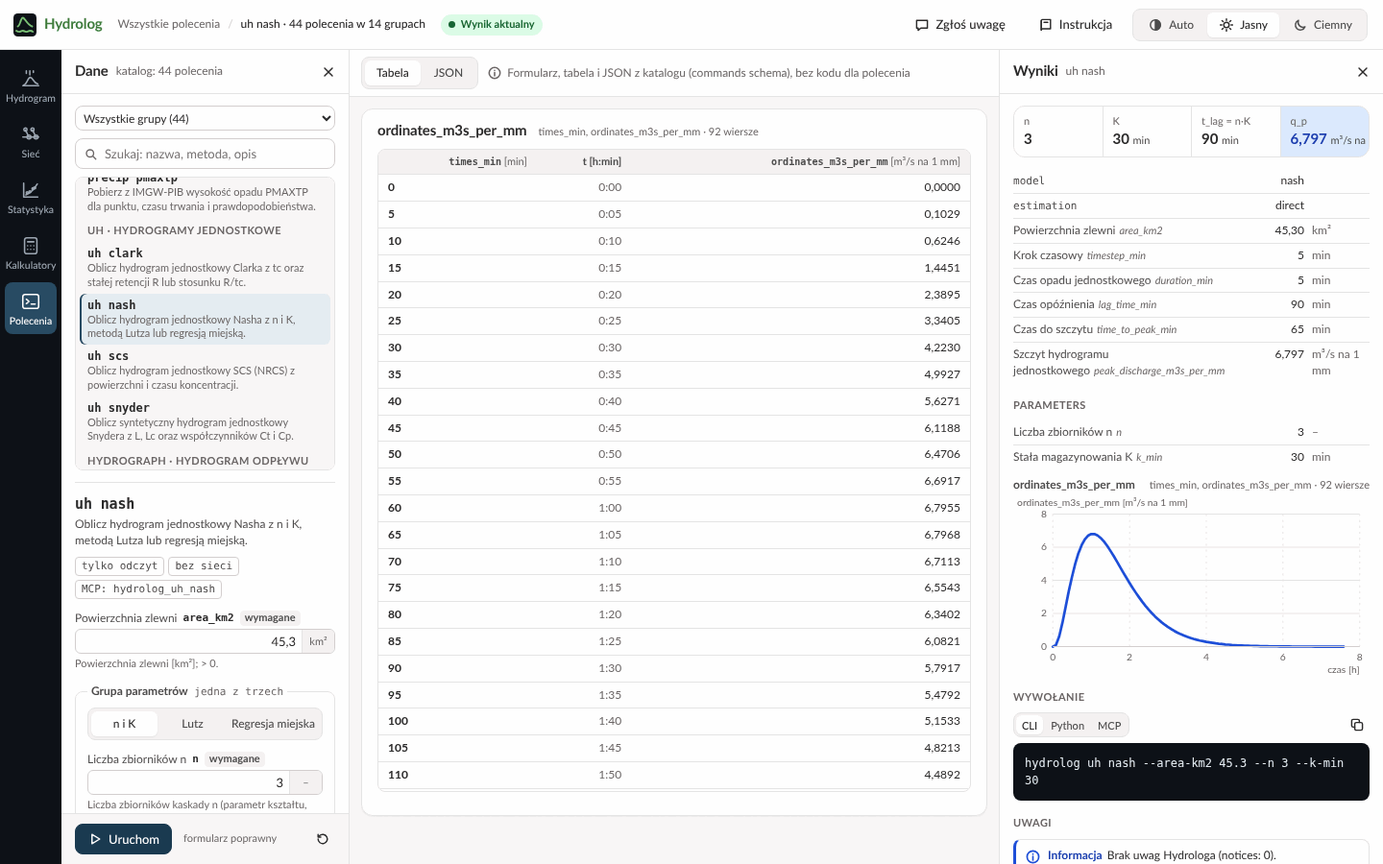
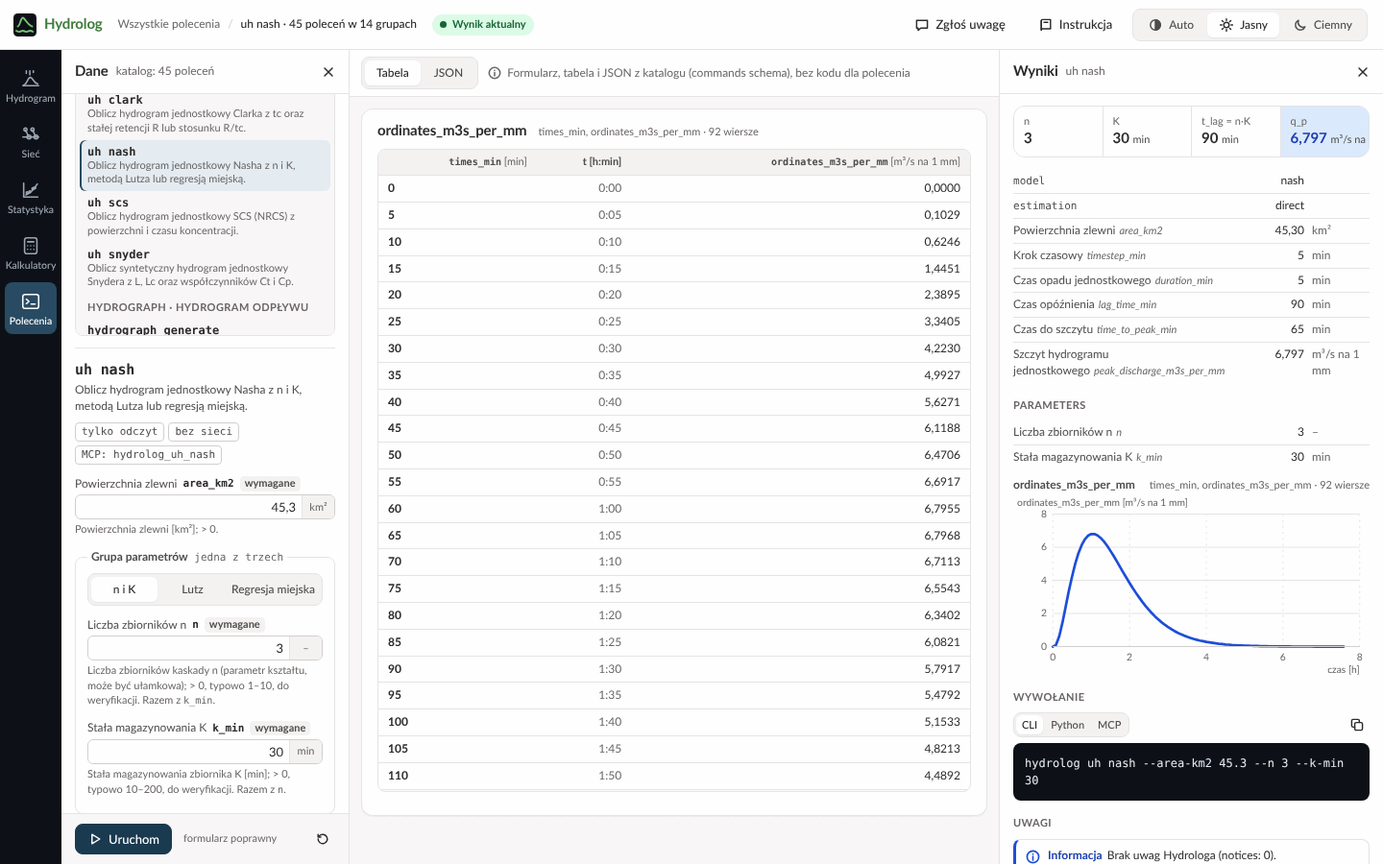
docs(guide): Hydrograf's network hand-off of 2026-11-11 and the pictures taken again
The chapter „Sieć z Hydrografa i pochodzenie węzłów” follows Hydrograf's nodes J and P, the outlet O and the two kinds dopływ and przyrzecze, with a picture of a real hand-off loaded in Sieć; the statistics' file action is „Z pliku CSV…” and „Wczytaj z Archiwisty”; statystyka.png, polecenia.png and siec-hydrograf.png are taken again from the running GUI (256 colours), and PROGRESS drops the notes that asked for them.

diff --git a/src/hydrolog/gui/web/instrukcja/index.html b/src/hydrolog/gui/web/instrukcja/index.html
@@ -350,13 +350,13 @@
   <p class="hint-box"><strong>Spróbuj:</strong> wybierz odcinek R_A, zmień metodę z „lag” na „Muskingum”, wpisz K&nbsp;30&nbsp;min i X&nbsp;0,2, a potem „Oblicz sieć”. Fala spłaszczy się w korycie: szczyt na wylocie spadnie do <span class="ex" data-example="siec-q-muskingum">18,0&nbsp;m³/s</span> i nadejdzie po <span class="ex" data-example="siec-tp-muskingum">2:35&nbsp;h</span>.</p>
 
   <h3 id="siec-z-hydrografa">Sieć z Hydrografa i pochodzenie węzłów</h3>
-  <p>Hydrograf wyznacza na mapie sieć zlewni do przekroju zamykającego, w punktach, które wskażesz: dopływy (do punktu, do ujścia albo powyżej najwyższego zbiegu), przyrzecza odcinków rzeki między punktami, same odcinki i złącza. Taką sieć przekazuje Hydrologowi (zob. <a href="#przekazanie">Przekazanie</a>), a „Wczytaj z Hydrografa” w kroku „Sieć” otwiera ją od razu ułożoną na schemacie. Każdy węzeł pamięta, skąd pochodzą jego dane.</p>
+  <p>W Hydrografie wybierz „Wybierz zlewnię”, a nad mapą „Sieć zlewni”. Wskaż najpierw przekrój zamykający na cieku, potem punkty powyżej niego. Punkt blisko zbiegu cieków staje się węzłem <code>J</code>, a punkt poza zbiegiem węzłem <code>P</code>; identyfikatory są nadawane od przekroju zamykającego w górę sieci. Hydrograf dzieli teren na dopływy do węzłów (również dopływ cieku głównego) i przyrzecza odcinków, a między nimi wyznacza odcinki i złącza. Po „Oblicz charakterystyki” użyj „Plik przekazania” albo „Kopiuj do Hydrologa”; w Hydrologu „Wczytaj z Hydrografa” w kroku „Sieć” otwiera sieć ułożoną na schemacie (zob. <a href="#przekazanie">Przekazanie</a>). Każdy węzeł pamięta, skąd pochodzą jego dane.</p>
   <figure>
-    <a href="img/siec-hydrograf.png"><img src="img/siec-hydrograf.png" width="1440" height="900" loading="lazy" alt="Sieć Rzeka, sieć (8 zlewni) wczytana z przekazania Hydrografa, z podanym opadem sieci i wybraną zlewnią Z3: w panelu Dane i w kroku Zlewnia panelu Zlewnia Z3 karta Z Hydrografa: przyrzecze odcinka R1 z miejscem ujścia 52,3476° N, 20,4811° E i datą przekazania, pod nią pola zlewni z Hydrografa; w środku schemat ułożony przez Hydrologa: dopływy przy złączach J1 do J5 na linii głównej, odcinki R1 do R4 z metodą Muskingum-Cunge; w panelu Wyniki karta przekazania Z Hydrografa: Rzeka, sieć (8 zlewni)."></a>
-    <figcaption>Sieć z Hydrografa po wczytaniu: każdy węzeł ma kartę pochodzenia, tu przyrzecze odcinka R1.</figcaption>
+    <a href="img/siec-hydrograf.png"><img src="img/siec-hydrograf.png" width="1440" height="900" loading="lazy" alt="Sieć ośmiu zlewni wczytana z Hydrografa: wybrana Z2 ma w obu panelach danych kartę „Z Hydrografa: przyrzecze odcinka R2”, powierzchnię 0,72 km² i CN 69,60; na schemacie są złącza J1–J4, odcinki R1–R3 i wylot O; po prawej karta przekazania bez wyniku producenta."></a>
+    <figcaption>Sieć z Hydrografa po wczytaniu: pochodzenie wybranego przyrzecza odcinka R2 i schemat z wylotem O.</figcaption>
   </figure>
   <ul>
-    <li><strong>Pochodzenie</strong> zlewni pokazuje karta w kroku „Zlewnia” jej panelu i w kroku 3 panelu „Dane”, np. „Z Hydrografa: przyrzecze odcinka R1” albo „Z Hydrografa: dopływ do ujścia przy punkcie P3”, z miejscem ujścia zlewni (szerokość i długość geograficzna) i datą przekazania; pola zmienione od wczytania wymienia dopisek „zmienione: …”. Pochodzenie opadu i modelu, gdy przekazanie je podaje, jest w krokach „Hietogram” i „Hydrogram”. Odcinek, złącze i wylot mają kartę w kroku 3 panelu „Dane”: odcinek mówi, jak zmierzono jego długość i spadek („długość wzdłuż spływu · spadek z NMT · NMT 128,6 → 123,8 m n.p.m.”, a gdy wzdłuż odcinka biegnie linia cieku BDOT10k, także długość kontrolną), złącze to „zbieg”, „punkt kontrolny P4” albo „przekrój zamykający A”. Węzeł bez własnego pochodzenia pokazuje kartę całego przekazania.</li>
+    <li><strong>Pochodzenie</strong> zlewni pokazuje karta w kroku „Zlewnia” jej panelu i w kroku 3 panelu „Dane”, np. „Z Hydrografa: przyrzecze odcinka R2” albo „Z Hydrografa: dopływ do punktu J4”, z miejscem ujścia zlewni (szerokość i długość geograficzna) i datą przekazania; pola zmienione od wczytania wymienia dopisek „zmienione: …”. W przekazaniu z pokazanego przykładu jest osiem zlewni, trzy odcinki, złącza <code>J1</code>–<code>J4</code> i wylot <code>O</code>: <code>Z7</code> to dopływ cieku głównego do <code>J4</code>, <code>Z8</code> drugi dopływ, a <code>Z2</code> przyrzecze odcinka <code>R2</code>. Pochodzenie opadu i modelu, gdy przekazanie je podaje, jest w krokach „Hietogram” i „Hydrogram”. Odcinek, złącze i wylot mają kartę w kroku 3 panelu „Dane”: odcinek opisuje pomiar długości i spadku, a złącze wskazuje zbieg, punkt lub przekrój zamykający. Węzeł bez własnego pochodzenia pokazuje kartę całego przekazania.</li>
     <li><strong>Czego Hydrograf nie podaje</strong>: opadu sieci i przekroju odcinków. Podaj opad sieci w kroku „Sieć”; do tego czasu każda zlewnia ma „Brak opadu”. „Oblicz sieć” oznacza potem odcinki znakiem „!”, dopóki nie wpiszesz w każdym szorstkości Manninga i szerokości dna. Zlewnie przychodzą z polami zlewni i stratami SCS-CN, a bez wskazanego modelu otwierają się z modelem SCS i czasem koncentracji Kirpicha, tak jak liczy je Hydrolog; możesz je zmienić w ich panelach.</li>
     <li><strong>Płaski albo krótki odcinek</strong>: na odcinku płaskim, krótkim albo z wąskim korytem i dużym przepływem długość dyfuzji fali (D&nbsp;=&nbsp;Q&nbsp;/&nbsp;(T·S0·c)) jest długa wobec drogi, jaką fala przebywa w jednym kroku czasowym, i metoda Muskingum-Cunge nie ma wtedy nieujemnych wag dla żadnego podziału odcinka ani kroku. Hydrolog nie odrzuca takiej sieci: trasuje odcinek jako zbiornik liniowy (gdy odcinek jest dłuższy niż półtorej długości dyfuzji, jako kaskadę n&nbsp;≈&nbsp;L/D zbiorników), który zachowuje czas przepływu fali L/c, i liczy sieć dalej. Wybrany w „Wynikach” odcinek ma wtedy ostrzeżenie, np. „Odcinek R2 trasowano jako zbiornik liniowy o K = … min, bo przy kroku 5 min metoda Muskingum-Cunge nie daje nieujemnych wag…”, z długością odcinka, prędkością fali i długością dyfuzji; uwagi wyniku mają uwagę tego węzła, a w jego parametrach „Schemat obliczeń” to „zbiorniki liniowe”. Tłumienie fali na takim odcinku jest przybliżone. Odcinek, którego metoda nie przyjmuje kroku sieci (np. Muskingum z podaną liczbą pododcinków), „Oblicz sieć” odrzuca: błąd mówi, czy krok jest za krótki (z zakresem kroków, które pasują), czy za długi, a pod nim „Zamień na opóźnienie (lag)” z wpisanym czasem od razu liczy sieć od nowa, a „Zamień na zbiornik (level-pool)” czeka na tabelę pojemność–odpływ w „Dane”. Krok czasowy sieci jest w kroku 1 „Sieć”, w polu „Krok czasowy”; puste pole to krok domyślny (krok źródeł, a bez nich 5&nbsp;min).</li>
     <li><strong>Dalej</strong>: pochodzenie idzie za węzłem także po zmianie id, a zlewnia dodana przez „Dodaj zlewnię z Hydrografa” albo wczytana w panelu zlewni dostaje pochodzenie ze swojego przekazania. Przekazanie zapisane z Sieci niesie pochodzenie każdego węzła pod jego obecnym id, z polami zmienionymi od wczytania, a dane wpisane w Sieci mają pochodzenie „wpisane ręcznie”. Otwarte ponownie, np. w innej przeglądarce, pokazuje te same pochodzenia; karty podpisuje wtedy Hydrolog, który zapisał przekazanie.</li>
@@ -370,11 +370,11 @@
   <h2 id="statystyka-title">Statystyka przepływów</h2>
   <p>Z największych przepływów kolejnych lat (maksimów rocznych) Hydrolog dopasowuje rozkłady prawdopodobieństwa i podaje przepływy o zadanym okresie powtarzania, np. Q&nbsp;1%: przepływ, który zdarza się średnio raz na 100 lat. Nie ma przycisku „Oblicz”: wynik liczy się sam chwilę po każdej zmianie szeregu albo okresów powtarzania, a niepełne dane nie uruchamiają obliczenia i zostawiają poprzedni wynik.</p>
   <figure>
-    <a href="img/statystyka.png"><img src="img/statystyka.png" width="1440" height="900" loading="lazy" alt="Statystyka przepływów po obliczeniu przykładu: wykres prawdopodobieństwa przewyższenia na siatce Gumbela z 26 maksimami rocznymi i czterema rozkładami; w panelu Wyniki kafelki Rozkład GEV, Q 1% 324,9 m³/s, Q 10% 197,4 m³/s, Długość 26 lat, uwagi, tabela rozkładów i kwantyli."></a>
+    <a href="img/statystyka.png"><img src="img/statystyka.png" width="1440" height="900" loading="lazy" alt="Statystyka przepływów dla 26 maksimów rocznych: po lewej filtry czterech rozkładów i wybranej metody L-momentów oraz wyróżniony okres 100 lat, pośrodku wykres prawdopodobieństwa i początek wykresu gęstości, po prawej najlepszy rozkład GEV, Q 1% 324,9 m³/s, Q 10% 197,4 m³/s, długość 26 lat i tabela rozkładów z kolumną metody."></a>
     <figcaption>Maksima roczne przykładu z lat 1998–2023 po obliczeniu.</figcaption>
   </figure>
   <ul>
-    <li><strong>Szereg</strong>: plik CSV wczytany do sesji („Wczytaj plik…”), z kolumnami odczytanymi z jego nagłówka, albo wartości wklejone („Wklej”). W szeregu dobowym, np. w eksporcie z Obserwatora z kolumnami daty i przepływu, wystarczy wskazać kolumnę dat: Hydrolog sam wybierze maksima z pełnych lat hydrologicznych (od listopada do października). Na początku sekcja jest pusta: nie ma pliku ani wartości.</li>
+    <li><strong>Szereg</strong>: plik CSV wczytany do sesji („Z pliku CSV…”) z kolumnami odczytanymi z jego nagłówka, wartości wklejone („Wklej”) albo „Wczytaj z Archiwisty” z przekazania. W szeregu dobowym, np. w eksporcie z Obserwatora z kolumnami daty i przepływu, wystarczy wskazać kolumnę dat: Hydrolog sam wybierze maksima z pełnych lat hydrologicznych (od listopada do października). Na początku sekcja jest pusta: nie ma pliku ani wartości.</li>
     <li><strong>Rozkłady</strong>: Hydrolog dopasowuje za każdym razem każdy z czterech rozkładów (log-normalny, GEV, Pearson III, Weibull) każdą z czterech metod estymacji parametrów: metodą L-momentów (<code>l_moments</code>), największą wiarygodnością (<code>mle</code>), metodą momentów (<code>moments</code>) i najmniejszych kwadratów (<code>least_squares</code>, która idzie za największymi maksimami). „Rozkłady” i „Metody estymacji” wybierają tylko, które kombinacje pokazać (na początku wszystkie rozkłady metodą L-momentów; jeden rozkład i jedna metoda zostają zawsze wybrane), niczego nie przeliczają i są zapamiętywane. Kolor linii to rozkład, jej styl to metoda: L-momenty linia ciągła, największa wiarygodność kreskowana, momenty kropkowana, najmniejsze kwadraty kreska-kropka. Kombinacja, której metoda nie umie dopasować, jest pominięta z uwagą, a kombinacja, która nie obejmuje któregoś maksimum, nie ma AIC i stoi na końcu tabeli. „Wyróżniony w wynikach” zaczyna od „brak”: bez wyróżnionego okresu nie ma kafelka jego kwantyla, zaznaczonego wiersza tabeli kwantyli ani kwantyla zaznaczonego na wykresie prawdopodobieństwa, a „Do porównania” jest wyłączone. Wybrany okres trafia do kafelków, tabeli, wykresu i „Do porównania”, a wybór jest zapamiętywany.</li>
     <li><strong>Wyniki</strong>: wykres prawdopodobieństwa przewyższenia na siatce Gumbela (punkty to maksima, linie to kombinacje rozkładu i metody), pod nim, jeden pod drugim, dwa wykresy względem przepływu Q, „Gęstość prawdopodobieństwa” (gęstość każdej kombinacji, maksima roczne jako kreski na osi Q) i „Dystrybuanta” (F = 1 − p każdej kombinacji, maksima jako punkty w położeniu Weibulla), widok „Maksima roczne” z latami, kafelki, uwagi, tabela rozkładów z kolumną „Metoda” i miarami dopasowania oraz tabela kwantyli. Żadna oś nie zaczyna się poniżej zera, a zakresy osi zależą tylko od wyniku, nie od pokazanych ani aktywnej kombinacji: oś Q wykresów gęstości i dystrybuanty sięga większego z dwóch przepływów, największego maksimum i mediany Q&nbsp;1% kombinacji, a oś gęstości 1,25 mediany największych gęstości kombinacji z AIC, więc skok gęstości przy granicy rozkładu ucina ramka wykresu. „Zakres osi” pod każdym wykresem ustawia własne granice „od” i „do” (okres powtarzania T i przepływ Q wykresu prawdopodobieństwa, Q i gęstość, Q dystrybuanty); puste pole to granica automatyczna, a „Auto” przywraca wszystkie granice wykresu. Po każdym obliczeniu aktywna jest najlepsza z pokazanych kombinacji (najmniejsze AIC): na wszystkich trzech wykresach jej krzywa jest pełna i gruba, pozostałe są przygaszone, a kafelki podają jej nazwę („Najlepszy”, gdy nią jest) i kwantyle. Kliknięcie wiersza tabeli rozkładów (albo Enter na zaznaczonym wierszu) czyni aktywną inną kombinację. Pole „W tabeli kwantyli” w każdym wierszu dodaje kolumnę kwantyli tej kombinacji do tabeli kwantyli i do eksportu CSV (kolumna <code>&lt;rozkład&gt;_&lt;metoda&gt;_m3s</code>), w kolejności tabeli rozkładów; po obliczeniu zaznaczona jest tylko najlepsza, a odznaczyć można każdy wiersz, także ostatni. Wybór nie jest zapamiętywany: nowy wynik wraca do najlepszej kombinacji.</li>
     <li><strong>„Jednorodność ciągu”</strong>, pod tabelą kwantyli, to ten sam szereg sprawdzony poleceniem <code>stats homogeneity</code>: testy Manna-Whitneya i Kołmogorowa-Smirnowa porównują pierwszą i drugą połowę maksimów, a test Pettitta szuka miejsca zmiany. Tabela podaje dla każdego testu statystykę, p i odpowiedź „Jednorodny”: „tak” albo „nie” (p&nbsp;&lt;&nbsp;0,05); test, który odrzuca jednorodność, dodaje uwagę. Pod tabelą jest podział szeregu i najbardziej prawdopodobny punkt zmiany według Pettitta: pierwszy rok po zmianie. Lata Hydrolog bierze z dat szeregu dobowego albo z kolumny lat pliku z maksimami; wklejone wartości nie mają lat, więc podział i punkt zmiany są podane jako pozycje w szeregu. Inny rok podziału i poziom istotności przyjmuje polecenie <code>stats homogeneity</code> we <a href="#polecenia">Wszystkich poleceniach</a>.</li>
@@ -427,7 +427,7 @@
   <h2 id="polecenia-title">Wszystkie polecenia</h2>
   <p>Wszystkie obliczenia Hydrologa dostępne w przeglądarce: te same polecenia, które ma program w wierszu poleceń (<code>hydrolog</code>), pogrupowane i z wyszukiwarką. Formularz każdego polecenia powstaje z jego opisu w katalogu Hydrologa, więc zawsze odpowiada temu, co polecenie przyjmuje.</p>
   <figure>
-    <a href="img/polecenia.png"><img src="img/polecenia.png" width="1440" height="900" loading="lazy" alt="Wszystkie polecenia z wybranym poleceniem uh nash po uruchomieniu: po lewej lista poleceń w grupach z wyszukiwarką i formularz (powierzchnia 45,3 km², grupa parametrów n i K), w środku tabela rzędnych hydrogramu jednostkowego, po prawej kafelki n, K, t_lag i q_p, parametry, wykres i wywołanie CLI."></a>
+    <a href="img/polecenia.png"><img src="img/polecenia.png" width="1440" height="900" loading="lazy" alt="Wszystkie polecenia, katalog 45 poleceń, z uruchomionym uh nash: po lewej wybrane polecenie i formularz powierzchni 45,3 km² oraz parametrów n 3 i K 30 min; pośrodku tabela rzędnych hydrogramu jednostkowego, po prawej wyniki n, K, t_lag 90 min i q_p 6,797 m³/s na mm, wykres oraz wywołanie CLI."></a>
     <figcaption>Polecenie <code>uh nash</code> z przykładem z tego rozdziału po „Uruchom”.</figcaption>
   </figure>
   <ul>

diff --git a/docs/PROGRESS.md b/docs/PROGRESS.md
@@ -20,7 +20,7 @@ Version 1.0.0.dev0 (1.0.0 is unreleased), Python >= 3.12. Branch `develop`: the 
 | Network objects, rainfall and runoff per subcatchment, control points | done | typed nodes that link by reference, five registries (nodes, reach methods, rainfall kinds, runoff models, storm shapes), `RainfallSource` and `RunoffModel` protocols (`DesignStorm`, `RainfallSeries`, `CurveNumberRunoff`), `describe()` of every part, `to_document()`, `ControlPointNetwork` for an application that picks points outlet first; `route network` reads the new fields, old documents unchanged ([ADR-0012](decisions/0012-network-objects-rainfall-and-runoff.md)) |
 | Schematic of a network | done | `RoutingNetwork.schematic(result=None, main_stem=None)`: the document `hydrolog-network-schematic/1` (nodes on a grid, octilinear edges, labels, the parameters and, with a result, the values of every node), the metro-style layout (a straight main stem, tributaries at 45 degrees on alternating sides, no crossings), `schematic_svg`, `route network --schematic FILE` and `--main-stem`, JSON Schema; the picture is checked on random trees ([ADR-0013](decisions/0013-network-schematic.md)) |
 | Gate and CI | done; CI green on `develop` `88dbe71` (2026-11-06) | `scripts/gate.sh` (ruff, mypy, pytest with coverage >= 80%, commit check), with the browser tests of `tests/e2e/` (Playwright and Chromium: `uv run --no-sync playwright install chromium` once); `.github/workflows/ci.yml` on Linux, macOS, Windows installs Chromium. Linux and macOS block; Windows reports without blocking until its port (the author's decision of 2026-11-06, deviation DEV-7.7 in CLAUDE.md; 15 tests fail there, Next 10). GitHub repository settings not done (author) |
-| Documentation | in progress | README, USAGE, PRD, SCOPE, INTEGRATION, COMPUTATION_PATHS, CHANGELOG, SECURITY, CONTRIBUTING in English; `docs/CLA.md` missing; example notebooks still Polish |
+| Documentation | in progress | README, USAGE, PRD, SCOPE, INTEGRATION, COMPUTATION_PATHS, CHANGELOG, SECURITY, CONTRIBUTING in English; `docs/CLA.md` missing; example notebooks still Polish. The Polish GUI guide's Hydrograf network section, statistics wording, and affected screenshots were refreshed from the running applications on 2026-11-11. |
 | ADRs | done | [ADR-0001 to ADR-0026](DECISIONS.md): 0001 to 0009 accepted 2026-10-24, 0010 to 0013 accepted 2026-10-25, 0014 and 0015 accepted 2026-11-02, 0016 to 0018 accepted 2026-11-04, 0019 and 0020 accepted 2026-11-05, 0021 and 0022 accepted 2026-11-06, 0023 to 0025 accepted 2026-11-10, 0026 accepted 2026-11-11 |
 | Time of concentration from the official inputs | done, merged into `develop` (`29138cc`, wording `c16976e`) | Nogat plan `2026-11-05-official-tc-inputs.md`, step 1 ([ADR-0019](decisions/0019-tc-from-the-inputs-its-source-defines.md), [GUI plan erratum](plans/2026-11-02-hydrolog-gui.md#erratum-2026-11-05-time-of-concentration-from-the-inputs-its-source-defines)): `flow_path_length_km` and `flow_path_slope_m_per_m` in `WatershedParameters`; every tc method takes the fields its source defines with no substitute; `tc kerby-kirpich` takes the flow path; citations fixed; the GUI, the guide (Kamiennik's flow path from Hydrograf) and its pictures follow |
 | Web GUI: „Zgłoś uwagę” | done, merged into `develop` (`2eb8bd0`) | Nogat plan `2026-11-03-feedback-in-archiwista-and-hydrolog.md`, step 2 ([ADR-0016](decisions/0016-gui-feedback-and-data-dir.md)): the button and dialog of the top bar with diagnostics, `POST api/feedback`, the admin routes with `X-Admin-Key`, SQLite `<data_dir>/hydrolog/feedback.sqlite3`, the admin page `admin/`; tests in `tests/integration/gui/test_feedback.py`, `tests/unit/gui/test_feedback.py`, `tests/e2e/test_feedback.py` |
@@ -57,17 +57,10 @@ Version 1.0.0.dev0 (1.0.0 is unreleased), Python >= 3.12. Branch `develop`: the 
     - Sieć: the width of the drawing is estimated from the length of its labels. The arrow keys between the nodes came with E2, the question before „Wyczyść” closes a changed network with E3 (Next 12).
     - Hydrogram: with a 300 px left panel a few long labels (CN dla AMC II, Krok czasowy) push their (i) button onto the next line.
     - Every page load mounts all five sections (`SectionHost` in `web/src/app.js`): about 47 GETs of catalog entries, and Hydrogram's `hydrograph generate` and Sieć's `route schematic` run even when another section is open. Kalkulatory relies on it (it reads the watershed and the tc method Hydrogram sets when it mounts), so loading a section on its first visit needs Kalkulatory to read Hydrogram's stored inputs instead.
-    - Wave C: `web/src/handoff/envelope.js` holds the validation keywords of Nogat's schema and is copied again when Nogat changes it (a browser test compares the two). The print view was checked in Chromium only. A network from a hand-off is kept in the session as `<subject>.json` with S4's sanitising („Kamiennik _ dwie zlewnie.json”), while its card shows the subject as sent. The guide's pictures (`web/instrukcja/img/`, ten PNG) are taken by hand with Playwright and reduced to 256 colours; CLAUDE.md says when.
+    - Wave C: `web/src/handoff/envelope.js` holds the validation keywords of Nogat's schema and is copied again when Nogat changes it (a browser test compares the two). The print view was checked in Chromium only. A network from a hand-off is kept in the session as `<subject>.json` with S4's sanitising („Kamiennik _ dwie zlewnie.json”), while its card shows the subject as sent. The guide's pictures (`web/instrukcja/img/`, eleven PNGs) are browser captures reduced to at most 256 colours; CLAUDE.md says when to retake them.
     - Flaky browser test (2026-11-03): `tests/e2e/test_guide.py::test_the_welcome_dialog_opens_until_it_is_hidden` fails now and then (`assert None == {'hidden': True}`), 2 of 3 runs alone on `develop` and 1 of 3 on `feature/gui` before the merge, so the merge did not cause it; the gate on `develop` 039f174 had only this failure (6602 passed). Likely the test reads the stored flag before the page writes it; to fix with a wait for the write. Under load, `test_siec` (schematic nodes) and the Qmax tile of `test_kalkulatory` timed out once in a gate that took 536 s; `siec/index.js:291` drops a status other than `ok` silently, a candidate cause.
     - Flaky browser tests under load (2026-11-11), cause not investigated: every full gate of the day's three merges (Next 14) had one browser failure that passed again alone. `fix/short-reach-message`, first run: „Failed to fetch dynamically imported module” for `src/sections/hydrogram/index.js`, with a preview server and a browser running beside it (the rerun: 7662 passed). `feat/origin-two-kinds`, first run: `test_shell.py::test_desktop_rail_panels_and_page_fits[1180-light]` („Locator expected to be visible”), beside Hydrograf's gate (the rerun: 7662 passed). `fix/diffusion-dominated-reach`, both runs: `test_charts.py::test_chart_redraws_its_svg_in_place_and_unmounts` (the chart module failed to load) and `test_desktop_rail_panels_and_page_fits[1180-dark]`, so it was merged without a green gate. W5 of the network wizard saw the same failed module load under load (the plan's Results). To find: why a module or an element of the page fails only while the machine is loaded; until then a failure of these tests is run again alone before it is called a regression.
-    - „Zgłoś uwagę” (`feature/feedback`): the guide's pictures of the whole page (`instrukcja/img/` ekran, hydrogram, statystyka, kalkulatory, polecenia) predate the button of the top bar and are to be taken again (siec and telefon were taken again with the network editor, Next 12); its text already names the button. The dialog is not offered inside Nogat's shell (`?nogat=1` hides the top bar) until the platform's kit gives a shared widget (plan D1).
-    - Fit methods (`feature/fit-methods`, 2026-11-06): the step „Rozkłady” of Statystyka przepływów gained „Metoda estymacji parametrów”, so the guide's pictures that show its panel Dane (`instrukcja/img/statystyka.png` and the phone's `telefon.png` if it shows Statystyka) are to be taken again; no tool in the repository takes them.
-    - Distributions chosen in Statystyka (`feature/stats-distribution-selection`, 2026-11-06): the distributions table gained the column „W tabeli kwantyli” and the marked active row, the tile of the distribution reads „Najlepszy”, and the plot dims the curves other than the active one. `instrukcja/img/statystyka.png` (and `telefon.png` if it shows Statystyka) is to be taken again for these too.
-    - Density and distribution-function charts (`feature/stats-density-charts`, 2026-11-06): the centre of Statystyka przepływów gained the card „Gęstość prawdopodobieństwa i dystrybuanta” under the probability plot, so `instrukcja/img/statystyka.png` (and `telefon.png` if it shows Statystyka) is to be taken again for it too; the picture's `alt` text names the old centre. The PNG export of the section still covers the probability plot only.
-    - No highlighted period by default (`feature/stats-no-chosen-period`, 2026-11-06): „Wyróżniony w wynikach” gained the chip „brak” and starts with it, so `instrukcja/img/statystyka.png` (and `telefon.png` if it shows Statystyka) is to be taken again with 100 chosen, as the guide's example now says (the picture and its `alt` text show the Q 1% tile).
-    - Homogeneity tests (`feature/homogeneity-tests`, 2026-11-06): the panel Wyniki of Statystyka przepływów gained „Jednorodność ciągu” under the quantile table, so `instrukcja/img/statystyka.png` (and `telefon.png` if it shows Statystyka) is to be taken again for it too; the guide's text already describes the panel.
-    - Every fit method at once (`feature/fit-method-all`, 2026-11-06, plan D6): the default fit method is now `l_moments`, so the example of Statystyka gives Q 1% 324,9 and Q 10% 197,4 m³/s (the guide's text and the alt of `instrukcja/img/statystyka.png` say so) and Pearson III joins Weibull without AIC; the picture still shows the maximum-likelihood result and is to be taken again. The GUI hides the choice `all` of „Metoda estymacji parametrów” until the view of the combinations (D7).
-    - The author's review of Statystyka (plan `2026-11-06-flow-statistics-feedback`, D7–D9; branches `feature/stats-combinations-view`, `feature/stats-chart-layout`, `feature/stats-live-recompute`, merged into `develop` on 2026-11-06): every combination of distribution and fit method with filters that only show, stacked and bounded charts, axes from 0 in every chart, ranges that depend on the result only with „Zakres osi”, and live recompute without „Oblicz”. `instrukcja/img/statystyka.png` (and `telefon.png` if it shows Statystyka) is to be taken again: the panel Dane has the two filters and no „Oblicz”, the centre the stacked charts with „Zakres osi”, Wyniki the column „Metoda”; the picture's `alt` text then follows.
+    - Guide screenshots (2026-11-11): `statystyka.png` now shows the L-moment result, filters and stacked charts; `polecenia.png` shows the current command count; `siec-hydrograf.png` shows a real hand-off with its node origin. Other guide screenshots already show „Zgłoś uwagę”; the phone screenshot shows Sieć, not Statystyka. The feedback dialog remains unavailable in Nogat's shell (`?nogat=1`) until the platform kit supplies a shared widget.
     - A station's annual maxima handed off by Archiwista (`hydrolog-series/1`, `step` `year`) open in Statystyka przepływów as pasted values and lose their years (`statystykaInputs` in `web/src/handoff/handoff.js`), so „Jednorodność ciągu” gives their split and change point as positions, not years. Keeping the years (a session file with a `year` column, as daily values become a file with `date`, which the section then sends as `year_column`) is open; the browser test of that hand-off pins the pasted values.
     - A stale `hydrolog.egg-info` (2026-10-24, ignored by git) in the repository root hid the `nogat.gui` entry point from `importlib.metadata`; it was moved out on 2026-11-03. Remove such a directory if it reappears.
 

diff --git a/docs/CHANGELOG.md b/docs/CHANGELOG.md
@@ -276,6 +276,7 @@ The author's decision of 2026-11-04: with PMAXTP a person gives the point, the p
 - Docs: ADR-0024 (amends ADR-0012), [COMPUTATION_PATHS.md](COMPUTATION_PATHS.md) 3.2.7, [USAGE.md](USAGE.md), [INTEGRATION.md](INTEGRATION.md), the GUI plan's erratum of D13, the wizard plan's answers to its questions Q1 and Q2.
 
 ### Changed
+- GUI user guide: refreshed the Hydrograf network hand-off chapter against a live network (confluence and point IDs, outlet `O`, headwater and intermediate subcatchments, node provenance), corrected the statistics file action and retook the changed network, statistics and command-catalogue screenshots as indexed PNGs; the worked example fixture and its numbers remain unchanged.
 
 - Obserwator pin (extra `pmaxtp`, `[tool.uv.sources]`) moved from candidate-1 `1ee5457` to commit `f9f4ee7927ba520d3e82d3e289872090ae24e2ec` of Nogat's release set candidate-2; `uv.lock` updated.
 
